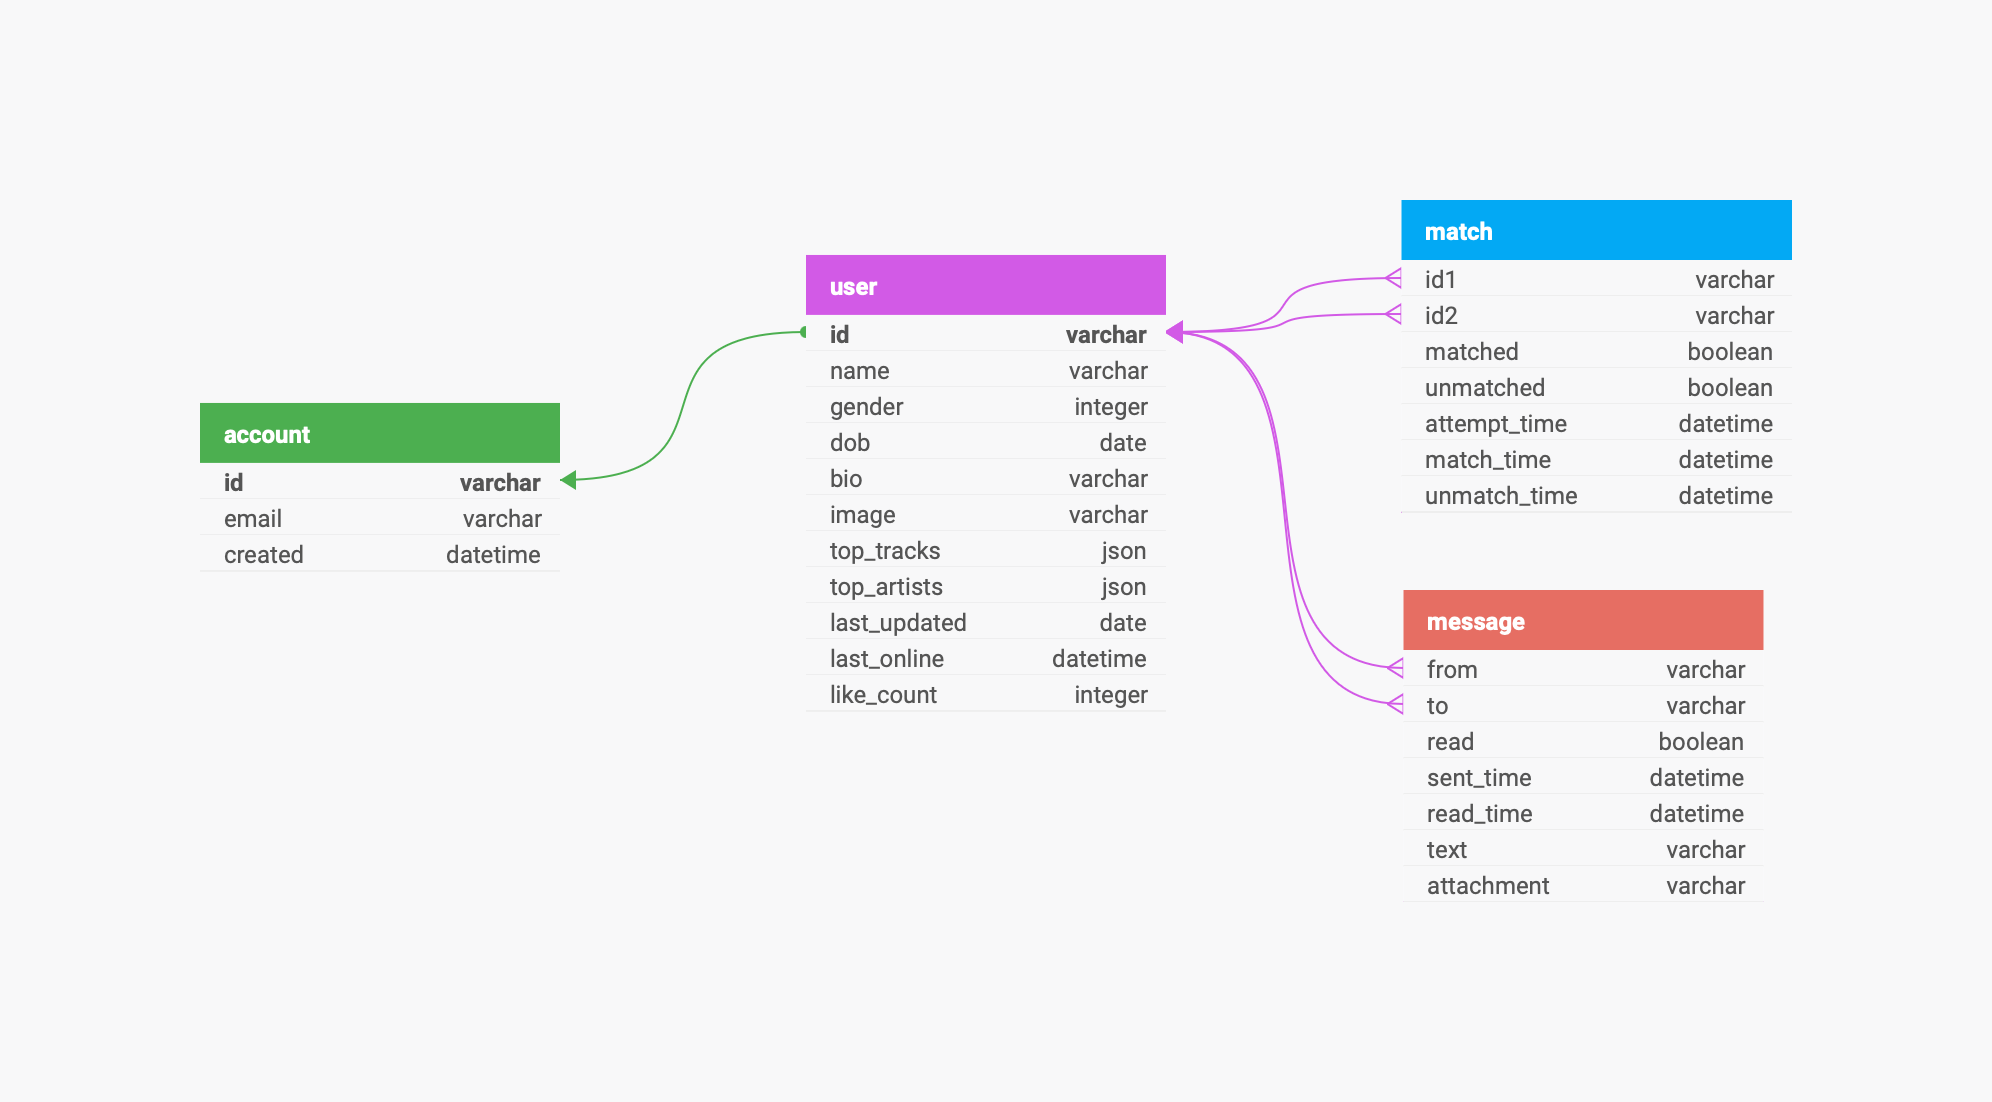
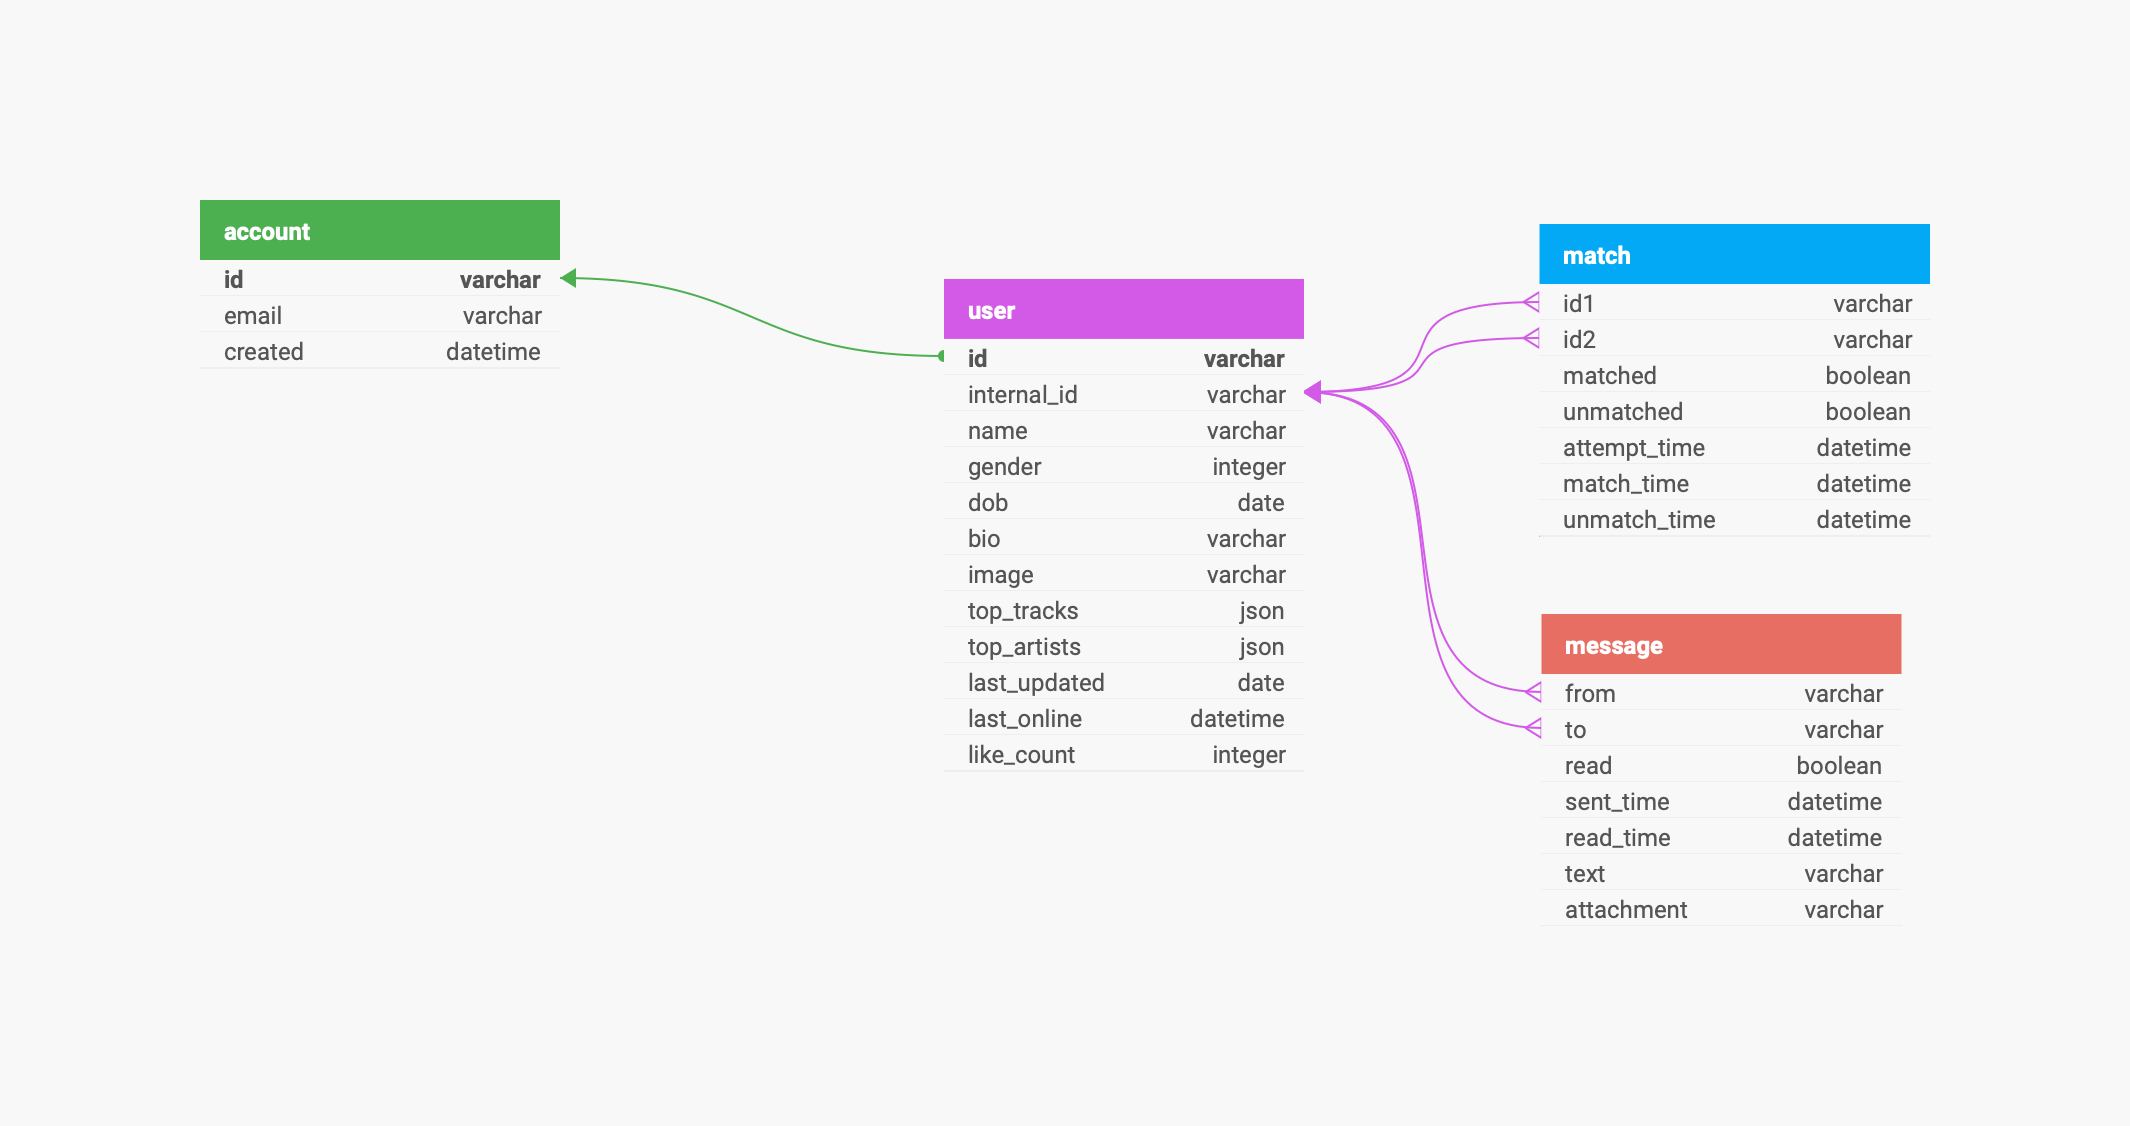
added internal ID to database

diff --git a/flaskr/account.py b/flaskr/account.py
@@ -44,7 +44,8 @@ def email_to_id(email):
 def create():
     response = {}
 
-    id = uuid.uuid4()       # first generate a UUID
+    id = uuid.uuid4()           # first generate a UUID
+    internal_id = uuid.uuid4()  # for security
 
     # account creation date
     now = datetime.now()
@@ -59,7 +60,7 @@ def create():
         return api.response(json.dumps(response))
 
     # now to the user table
-    rows = cursor.execute("INSERT INTO user ( id, name, gender, dob, like_count ) VALUES ( \"" + str(id) + "\", \"" + request.form["name"] + "\", \"" + request.form["gender"] + "\", \"" + request.form["dob"] + "\", \"0\" )")
+    rows = cursor.execute("INSERT INTO user ( id, internal_id, name, gender, dob, like_count ) VALUES ( \"" + str(id) + "\", \"" + str(internal_id) + "\", \"" + request.form["name"] + "\", \"" + request.form["gender"] + "\", \"" + request.form["dob"] + "\", \"0\" )")
 
     if rows != 1:
         response["status"] = "fail"
